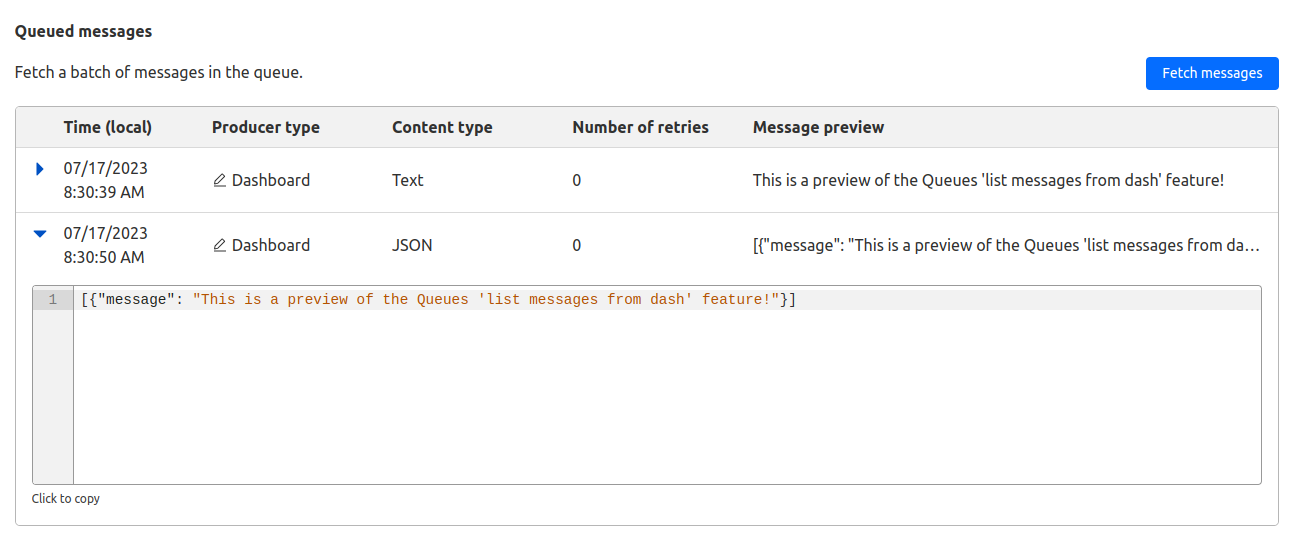
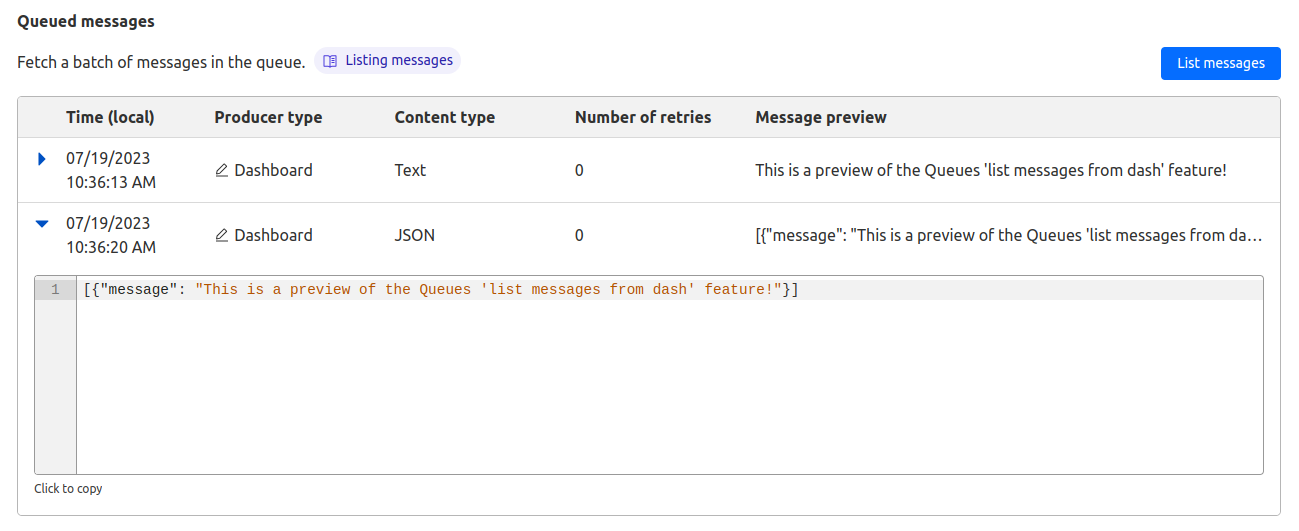
Update screenshots to reflect fetch → list rename (#9960)

diff --git a/content/queues/examples/list-messages-from-dash/index.md b/content/queues/examples/list-messages-from-dash/index.md
@@ -1,16 +1,16 @@
 ---
 pcx_content_type: how-to
-title: List messages in the dashboard
+title: List messages from the dashboard
 summary: Use the dashboard to fetch the messages currently in a Queue.
 weight: 1004
 layout: single
 meta:
-  title: Cloudflare Queues - Listing messages in the dashboard 
+  title: Cloudflare Queues - Listing messages from the dashboard 
 ---
 
-# List messages in the dashboard
+# List messages from the dashboard
 
-Listing messages in the dashboard allows you to debug Queues or Queue producers without a consumer Worker. Fetching a batch of messages to preview will not acknowledge or retry the message or affect its position in the Queue. The Queue can still be consumed normally by a consumer Worker.
+Listing messages from the dashboard allows you to debug Queues or Queue producers without a consumer Worker. Fetching a batch of messages to preview will not acknowledge or retry the message or affect its position in the Queue. The Queue can still be consumed normally by a consumer Worker.
 
 To list messages in the dashboard:
 
@@ -23,7 +23,7 @@ To list messages in the dashboard:
 
 ![A form to configure how many messages are listed at a time, with a number input showing '10'](./fetch-message-batch-size.png)
 
-7. Select **Fetch messages**.
+7. Select **List messages**.
 8. When the list of messages loads, select the blue arrow to the left of each row to expand the message preview.
 
 ![A table showing two previewed messages, one text and one JSON, both with some placeholder text](./fetched-messages.png)
